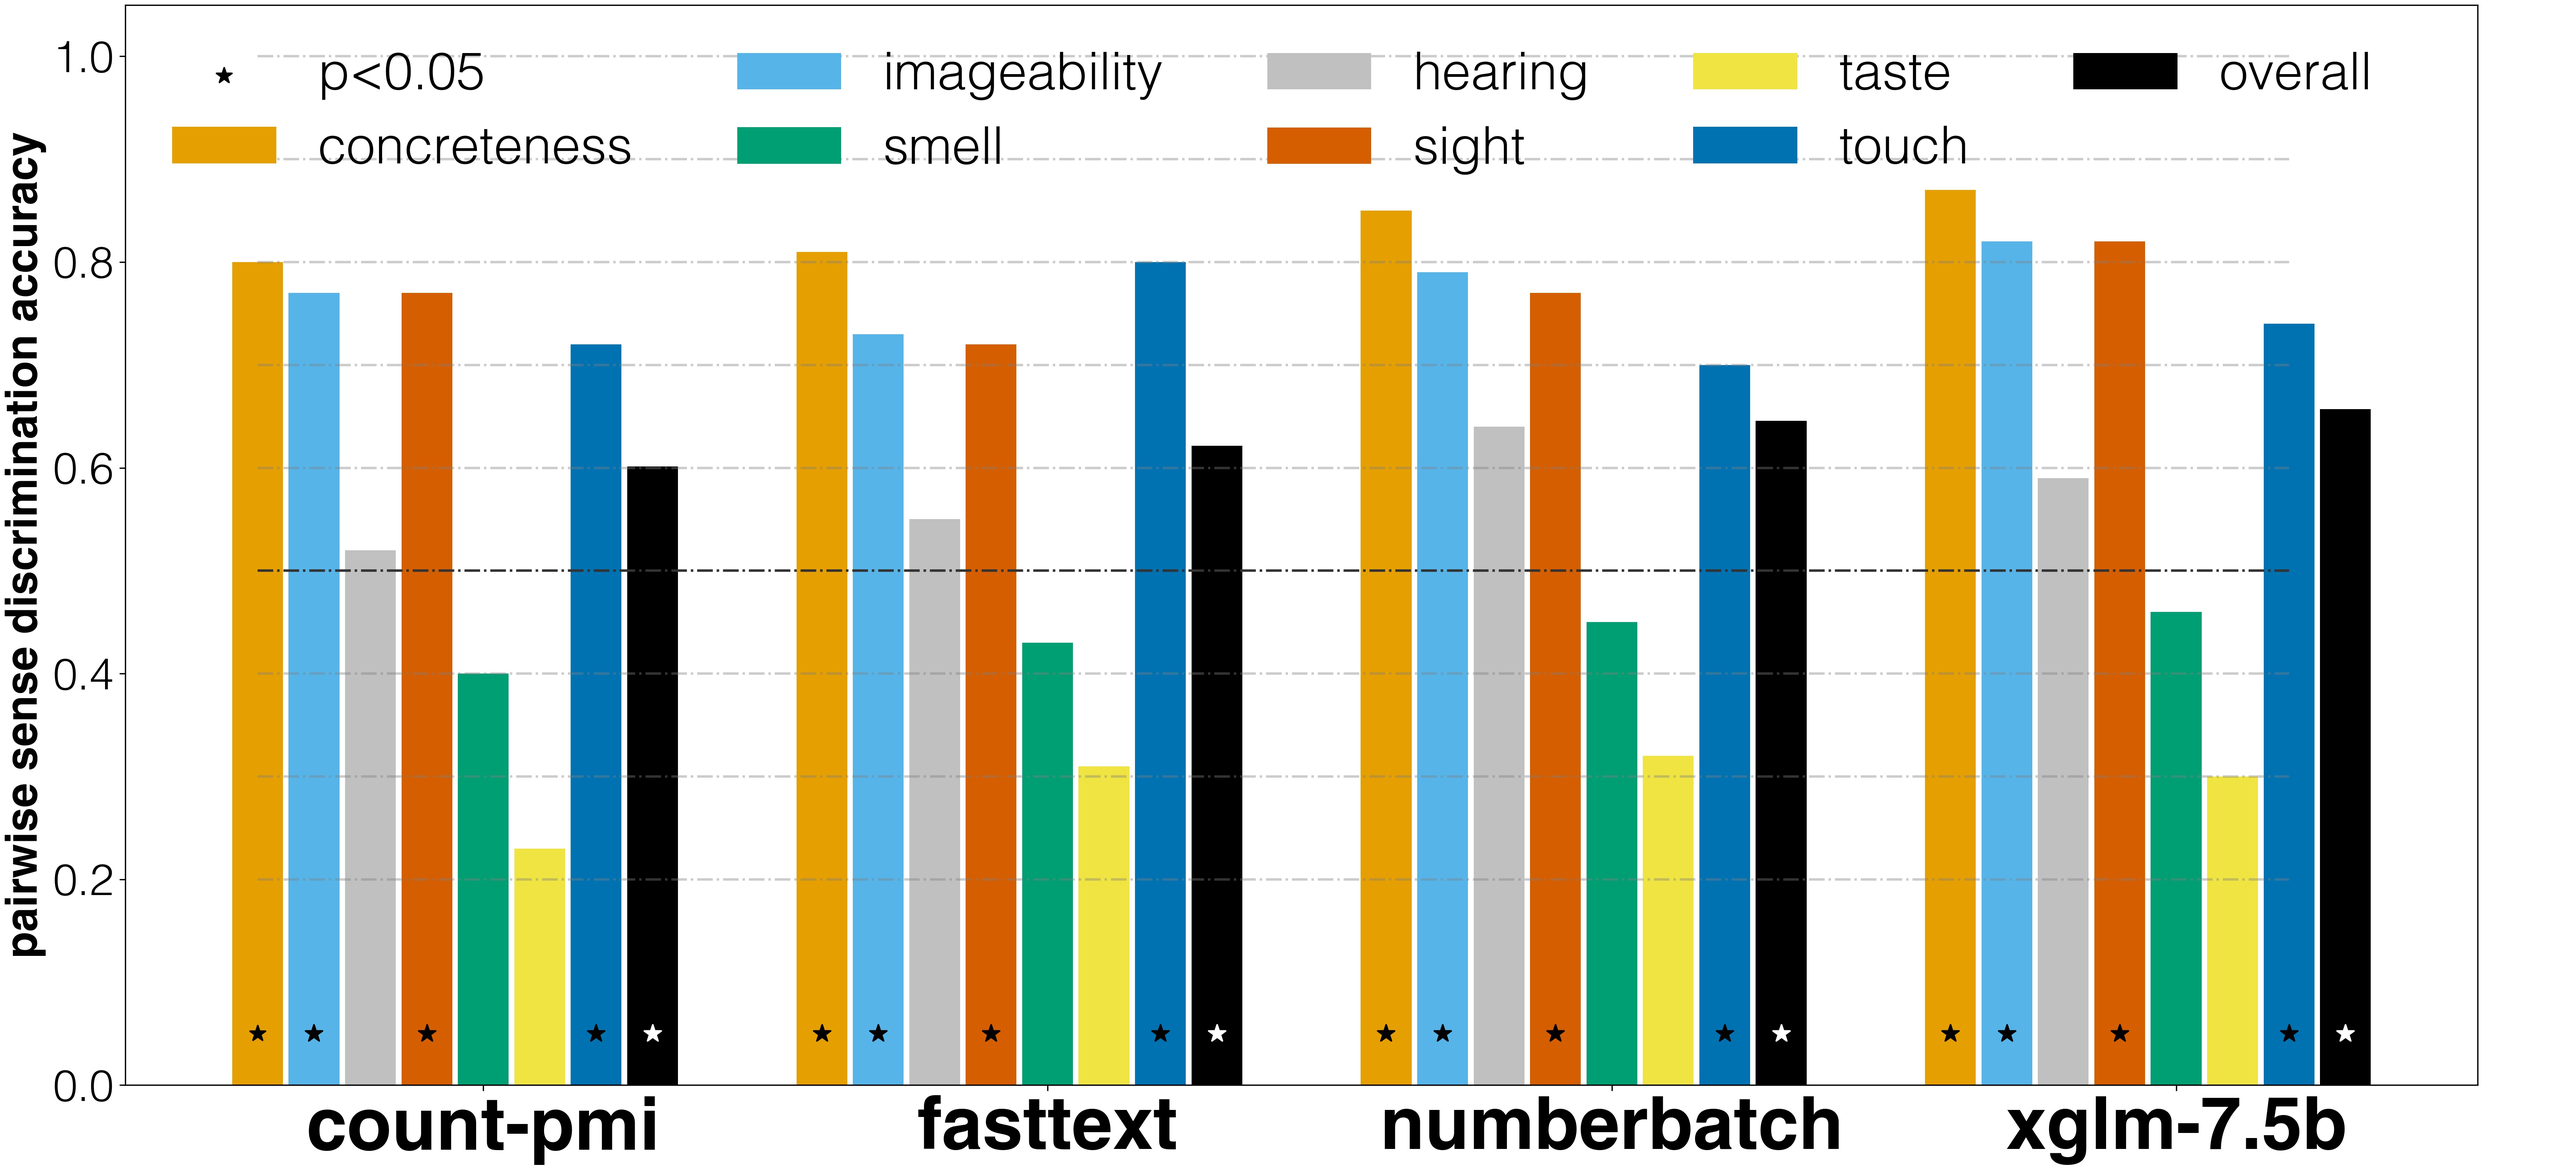
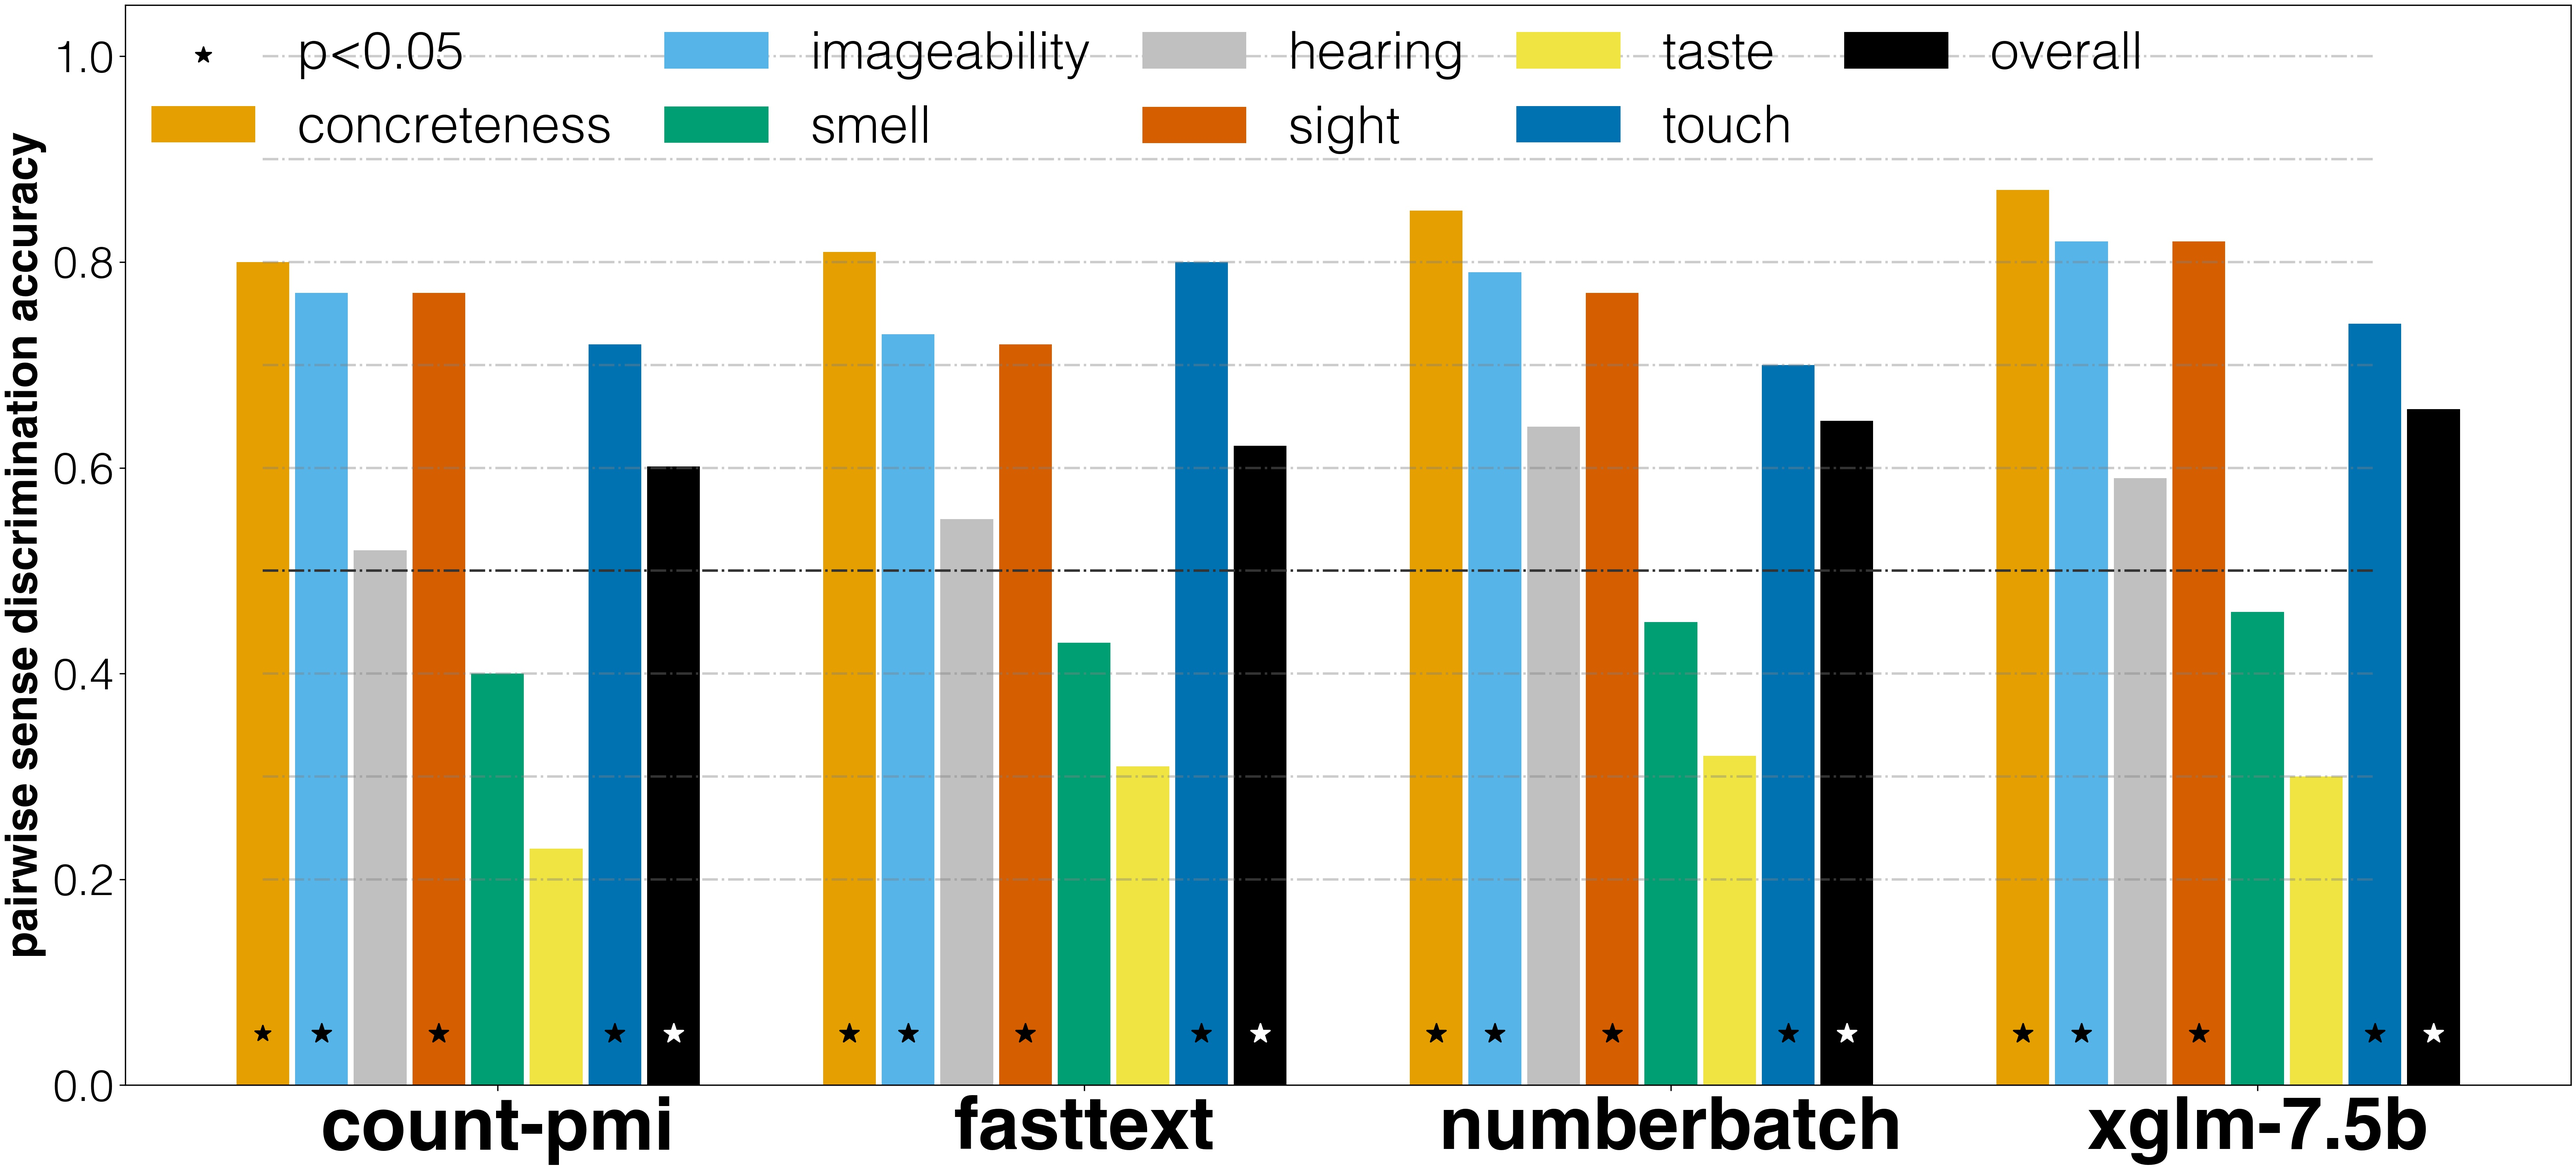
w

diff --git a/07_rsa_and_evaluation.py b/07_rsa_and_evaluation.py
@@ -496,7 +496,7 @@ with open('{}.txt'.format(out_file), 'w') as o:
                            marker='*', 
                            color=p_color, 
                            zorder=2.5,
-                           s=120.,
+                           s=150.,
                            )
             #if p < 0.005:
             #    ax.scatter([m_i+corrections[var_i]], [0.075], marker='*', color=p_color, zorder=2.5)
@@ -525,7 +525,15 @@ ax.set_xticklabels(
                    fontweight='bold'
                    )
 pyplot.yticks(fontsize=27)
-ax.legend(fontsize=32, ncol=5, loc=2, frameon=False)
+ax.legend(
+          fontsize=32, 
+          ncol=5, 
+          loc=2, 
+          frameon=False, 
+          borderpad=0.,
+          columnspacing=1.,
+          framealpha=0.
+          )
 ax.set_ylabel('pairwise sense discrimination accuracy', fontsize=27, fontweight='bold')
 
 pyplot.savefig('{}.jpg'.format(out_file), dpi=300)
